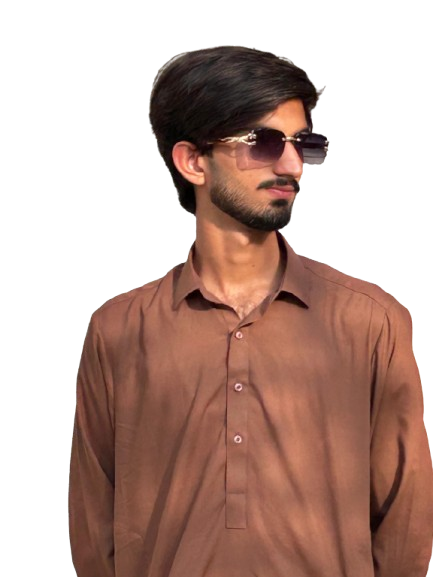
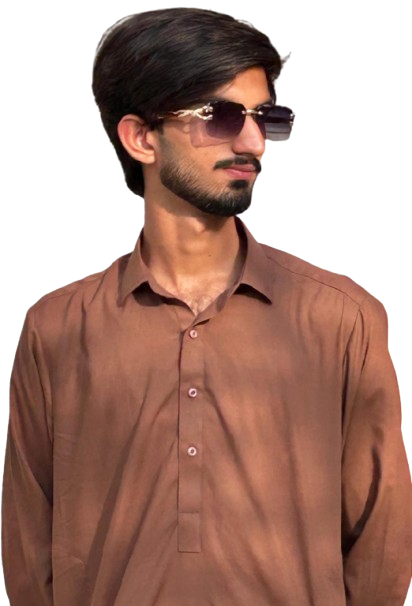
Update team section and Faizan image

diff --git a/src/app/components/TeamMembers.tsx b/src/app/components/TeamMembers.tsx
@@ -1,7 +1,7 @@
 "use client";
 
 import Image from "next/image";
-import { useState } from "react";
+import { useEffect, useState } from "react";
 import {
     FaGithub,
     FaInstagram,
@@ -47,18 +47,46 @@ const teamMembers = [
 
 const TeamMembers = () => {
     const [currentIndex, setCurrentIndex] = useState(0);
+    const [direction, setDirection] = useState<"next" | "prev">("next");
+    const [isAnimating, setIsAnimating] = useState(false);
 
-    const nextSlide = () => {
-        setCurrentIndex((prev) =>
-            prev === teamMembers.length - 1 ? 0 : prev + 1
-        );
+    const changeMember = (newIndex: number, newDirection: "next" | "prev") => {
+        if (isAnimating) return;
+
+        setDirection(newDirection);
+        setIsAnimating(true);
+
+        setTimeout(() => {
+            setCurrentIndex(newIndex);
+            setIsAnimating(false);
+        }, 450);
     };
 
-    const prevSlide = () => {
-        setCurrentIndex((prev) =>
-            prev === 0 ? teamMembers.length - 1 : prev - 1
-        );
+    const nextMember = () => {
+        const newIndex =
+            currentIndex === teamMembers.length - 1
+                ? 0
+                : currentIndex + 1;
+
+        changeMember(newIndex, "next");
     };
+
+    const previousMember = () => {
+        const newIndex =
+            currentIndex === 0
+                ? teamMembers.length - 1
+                : currentIndex - 1;
+
+        changeMember(newIndex, "prev");
+    };
+
+    useEffect(() => {
+        const timer = setInterval(() => {
+            nextMember();
+        }, 5000);
+
+        return () => clearInterval(timer);
+    }, [currentIndex, isAnimating]);
 
     const member = teamMembers[currentIndex];
 
@@ -67,160 +95,161 @@ const TeamMembers = () => {
             id="team"
             className="relative overflow-hidden bg-[#181a1d] py-24 sm:py-28 lg:py-32"
         >
-            <div className="pointer-events-none absolute left-1/2 top-0 h-80 w-80 -translate-x-1/2 rounded-full bg-blue-500/[0.04] blur-[120px]" />
+            <div className="pointer-events-none absolute left-1/2 top-0 h-80 w-80 -translate-x-1/2 -translate-y-1/2 rounded-full bg-blue-500/5 blur-[120px]" />
 
             <div className="relative mx-auto max-w-6xl px-6 lg:px-8">
-                {/* Heading */}
+
                 <div className="mb-14 text-center sm:mb-16">
-                    <h2 className="text-4xl font-bold tracking-tight text-white sm:text-5xl">
+                    <span className="text-xs font-bold uppercase tracking-[0.3em] text-blue-400">
+                        Our Team
+                    </span>
+
+                    <h2 className="mt-3 text-4xl font-bold tracking-tight text-white sm:text-5xl">
                         Team Showcase
                     </h2>
 
-                    <p className="mt-3 text-sm text-gray-400 sm:text-base">
-                        Meet the people behind the work
+                    <p className="mx-auto mt-4 max-w-xl text-sm leading-6 text-gray-400 sm:text-base">
+                        Meet the talented people behind our creative work.
                     </p>
                 </div>
 
-                {/* Carousel */}
-                <div className="relative mx-auto max-w-4xl">
-                    {/* Previous */}
-                    <button
-                        type="button"
-                        onClick={prevSlide}
-                        aria-label="Previous team member"
-                        className="absolute left-0 top-1/2 z-20 flex h-11 w-11 -translate-x-1/2 -translate-y-1/2 items-center justify-center rounded-full border border-white/10 bg-[#24272b] text-gray-300 shadow-xl transition-all duration-300 hover:border-blue-400/50 hover:bg-blue-500 hover:text-white sm:h-12 sm:w-12"
-                    >
-                        <FaChevronLeft size={14} />
-                    </button>
+                <div className="relative mx-auto max-w-4xl px-2 pb-12 sm:px-8">
 
-                    {/* Main Card */}
-                    <div
-                        key={member.name}
-                        className="overflow-hidden rounded-2xl border border-white/10 bg-[#202327] shadow-2xl"
-                    >
-                        <div className="grid md:grid-cols-[0.95fr_1.05fr]">
-                            {/* Image */}
-                            <div className="relative h-[390px] bg-[#e9e9e9] sm:h-[480px] md:h-[500px]">
-                                <Image
-                                    src={member.image}
-                                    alt={member.name}
-                                    fill
-                                    priority
-                                    className="object-cover object-top"
-                                    sizes="(max-width: 768px) 100vw, 50vw"
-                                />
+                    <div className="relative overflow-hidden rounded-3xl">
 
-                                {/* Image Overlay */}
-                                <div className="absolute inset-0 bg-gradient-to-t from-black/30 via-transparent to-transparent" />
-                            </div>
+                        <div
+                            className={`transition-all duration-450 ease-in-out ${
+                                isAnimating
+                                    ? direction === "next"
+                                        ? "-translate-x-8 opacity-0"
+                                        : "translate-x-8 opacity-0"
+                                    : "translate-x-0 opacity-100"
+                            }`}
+                        >
+                            <div className="group overflow-hidden rounded-3xl border border-white/10 bg-[#202327] shadow-[0_25px_80px_rgba(0,0,0,0.35)] transition-all duration-700 hover:border-white/15 hover:shadow-[0_30px_90px_rgba(0,0,0,0.45)]">
 
-                            {/* Content */}
-                            <div className="flex flex-col justify-center px-8 py-10 sm:px-12 md:px-14">
-                                <span className="text-xs font-bold uppercase tracking-[0.25em] text-blue-400">
-                                    Team Member
-                                </span>
+                                <div className="grid md:grid-cols-[0.9fr_1.1fr]">
 
-                                <div className="mt-5 h-px w-10 bg-blue-500" />
-
-                                <h3 className="mt-6 text-3xl font-bold tracking-tight text-white sm:text-4xl">
-                                    {member.name}
-                                </h3>
-
-                                <p className="mt-3 text-base font-medium text-gray-400">
-                                    {member.role}
-                                </p>
-
-                                <p className="mt-6 max-w-md text-sm leading-7 text-gray-500">
-                                    Passionate about creating modern,
-                                    reliable and user-friendly digital
-                                    experiences. Focused on clean work,
-                                    creative ideas and professional results.
-                                </p>
-
-                                {/* Social Icons */}
-                                <div className="mt-8 flex gap-3">
-                                    <a
-                                        href={member.github}
-                                        target="_blank"
-                                        rel="noopener noreferrer"
-                                        aria-label={`${member.name} GitHub`}
-                                        className="flex h-10 w-10 items-center justify-center rounded-full border border-white/10 bg-white/[0.03] text-gray-400 transition-all duration-300 hover:-translate-y-1 hover:border-white/30 hover:bg-white hover:text-black"
-                                    >
-                                        <FaGithub size={16} />
-                                    </a>
-
-                                    <a
-                                        href={member.linkedin}
-                                        target="_blank"
-                                        rel="noopener noreferrer"
-                                        aria-label={`${member.name} LinkedIn`}
-                                        className="flex h-10 w-10 items-center justify-center rounded-full border border-white/10 bg-white/[0.03] text-gray-400 transition-all duration-300 hover:-translate-y-1 hover:border-blue-400/50 hover:bg-blue-500 hover:text-white"
-                                    >
-                                        <FaLinkedinIn size={16} />
-                                    </a>
-
-                                    <a
-                                        href={member.instagram}
-                                        target="_blank"
-                                        rel="noopener noreferrer"
-                                        aria-label={`${member.name} Instagram`}
-                                        className="flex h-10 w-10 items-center justify-center rounded-full border border-white/10 bg-white/[0.03] text-gray-400 transition-all duration-300 hover:-translate-y-1 hover:border-pink-400/50 hover:bg-pink-500 hover:text-white"
-                                    >
-                                        <FaInstagram size={16} />
-                                    </a>
-                                </div>
-
-                                {/* Member Counter */}
-                                <div className="mt-10 flex items-center gap-4">
-                                    <span className="text-xs font-bold text-white">
-                                        0{currentIndex + 1}
-                                    </span>
-
-                                    <div className="h-px w-16 bg-white/10">
-                                        <div
-                                            className="h-px bg-blue-500 transition-all duration-500"
-                                            style={{
-                                                width: `${((currentIndex + 1) /
-                                                        teamMembers.length) *
-                                                    100
-                                                    }%`,
-                                            }}
+                                    <div className="relative h-95 overflow-hidden bg-[#e9e9e9] sm:h-115 md:h-125">
+                                        <Image
+                                            src={member.image}
+                                            alt={member.name}
+                                            fill
+                                            priority
+                                            className="object-cover object-top transition-transform duration-1000 ease-out group-hover:scale-[1.04]"
+                                            sizes="(max-width: 768px) 100vw, 45vw"
                                         />
+
+                                        <div className="absolute inset-0 bg-linear-to-t from-black/30 via-transparent to-transparent" />
+
+                                        <div className="pointer-events-none absolute inset-0 bg-blue-500/0 transition-colors duration-700 group-hover:bg-blue-500/[0.025]" />
                                     </div>
 
-                                    <span className="text-xs text-gray-600">
-                                        0{teamMembers.length}
-                                    </span>
+                                    <div className="flex flex-col justify-center px-7 py-10 sm:px-10 md:px-12">
+
+                                        <span className="w-fit rounded-full border border-blue-400/20 bg-blue-500/10 px-3 py-1 text-[10px] font-bold uppercase tracking-[0.2em] text-blue-400">
+                                            Team Member
+                                        </span>
+
+                                        <h3 className="mt-5 text-3xl font-bold tracking-tight text-white sm:text-4xl">
+                                            {member.name}
+                                        </h3>
+
+                                        <p className="mt-2 text-sm font-medium text-blue-400">
+                                            {member.role}
+                                        </p>
+
+                                        <div className="mt-5 h-px w-12 bg-blue-500 transition-all duration-700 group-hover:w-20" />
+
+                                        <p className="mt-6 max-w-md text-sm leading-7 text-gray-500">
+                                            Passionate about creating modern,
+                                            reliable and user-friendly digital
+                                            experiences. Focused on clean work,
+                                            creative ideas and professional results.
+                                        </p>
+
+                                        <div className="mt-8 flex gap-3">
+
+                                            <a
+                                                href={member.github}
+                                                target="_blank"
+                                                rel="noopener noreferrer"
+                                                aria-label={`${member.name} GitHub`}
+                                                className="flex h-10 w-10 items-center justify-center rounded-full border border-white/10 bg-white/[0.03] text-gray-400 transition-all duration-300 hover:-translate-y-1 hover:border-white/30 hover:bg-white hover:text-black"
+                                            >
+                                                <FaGithub size={16} />
+                                            </a>
+
+                                            <a
+                                                href={member.linkedin}
+                                                target="_blank"
+                                                rel="noopener noreferrer"
+                                                aria-label={`${member.name} LinkedIn`}
+                                                className="flex h-10 w-10 items-center justify-center rounded-full border border-white/10 bg-white/[0.03] text-gray-400 transition-all duration-300 hover:-translate-y-1 hover:border-blue-400/50 hover:bg-blue-500 hover:text-white"
+                                            >
+                                                <FaLinkedinIn size={16} />
+                                            </a>
+
+                                            <a
+                                                href={member.instagram}
+                                                target="_blank"
+                                                rel="noopener noreferrer"
+                                                aria-label={`${member.name} Instagram`}
+                                                className="flex h-10 w-10 items-center justify-center rounded-full border border-white/10 bg-white/[0.03] text-gray-400 transition-all duration-300 hover:-translate-y-1 hover:border-pink-400/50 hover:bg-pink-500 hover:text-white"
+                                            >
+                                                <FaInstagram size={16} />
+                                            </a>
+
+                                        </div>
+                                    </div>
                                 </div>
                             </div>
                         </div>
                     </div>
 
-                    {/* Next */}
+                    {/* Previous Button */}
                     <button
                         type="button"
-                        onClick={nextSlide}
+                        onClick={previousMember}
+                        disabled={isAnimating}
+                        aria-label="Previous team member"
+                        className="absolute left-0 top-1/2 z-20 flex h-10 w-10 -translate-y-1/2 items-center justify-center rounded-full border border-white/10 bg-[#202327]/90 text-gray-400 shadow-lg backdrop-blur-md transition-all duration-300 hover:scale-110 hover:border-white/20 hover:bg-white hover:text-black disabled:pointer-events-none sm:left-1"
+                    >
+                        <FaChevronLeft size={14} />
+                    </button>
+
+                    {/* Next Button */}
+                    <button
+                        type="button"
+                        onClick={nextMember}
+                        disabled={isAnimating}
                         aria-label="Next team member"
-                        className="absolute right-0 top-1/2 z-20 flex h-11 w-11 translate-x-1/2 -translate-y-1/2 items-center justify-center rounded-full border border-white/10 bg-[#24272b] text-gray-300 shadow-xl transition-all duration-300 hover:border-blue-400/50 hover:bg-blue-500 hover:text-white sm:h-12 sm:w-12"
+                        className="absolute right-0 top-1/2 z-20 flex h-10 w-10 -translate-y-1/2 items-center justify-center rounded-full border border-white/10 bg-[#202327]/90 text-gray-400 shadow-lg backdrop-blur-md transition-all duration-300 hover:scale-110 hover:border-white/20 hover:bg-white hover:text-black disabled:pointer-events-none sm:right-1"
                     >
                         <FaChevronRight size={14} />
                     </button>
-                </div>
 
-                {/* Dots */}
-                <div className="mt-8 flex justify-center gap-2">
-                    {teamMembers.map((item, index) => (
-                        <button
-                            key={item.name}
-                            type="button"
-                            onClick={() => setCurrentIndex(index)}
-                            aria-label={`Show ${item.name}`}
-                            className={`h-1.5 rounded-full transition-all duration-300 ${currentIndex === index
-                                    ? "w-8 bg-blue-500"
-                                    : "w-2 bg-gray-600 hover:bg-gray-400"
+                    {/* Indicators */}
+                    <div className="absolute bottom-0 left-1/2 flex -translate-x-1/2 items-center gap-2">
+                        {teamMembers.map((item, index) => (
+                            <button
+                                key={item.name}
+                                type="button"
+                                onClick={() =>
+                                    changeMember(
+                                        index,
+                                        index > currentIndex ? "next" : "prev"
+                                    )
+                                }
+                                aria-label={`Show ${item.name}`}
+                                className={`h-1.5 rounded-full transition-all duration-500 ${
+                                    index === currentIndex
+                                        ? "w-8 bg-blue-400"
+                                        : "w-1.5 bg-white/20 hover:bg-white/40"
                                 }`}
-                        />
-                    ))}
+                            />
+                        ))}
+                    </div>
                 </div>
             </div>
         </section>

diff --git a/src/app/layout.tsx b/src/app/layout.tsx
@@ -20,18 +20,22 @@ export const metadata: Metadata = {
   description: "Husnain Persnol Porfolio!",
 };
 
-export default function RootLayout({ children }: LayoutProps<"/">) {
+export default function RootLayout({
+  children,
+}: Readonly<{
+  children: React.ReactNode;
+}>) {
   return (
     <html
       lang="en"
       className={`${geistSans.variable} ${geistMono.variable} h-full antialiased`}
     >
       <body className="min-h-full flex flex-col">
-        <CustomCursor/>
-        <Navbar/>
+        <CustomCursor />
+        <Navbar />
         {children}
-        <Footer/>
-        </body>
+        <Footer />
+      </body>
     </html>
   );
 }
